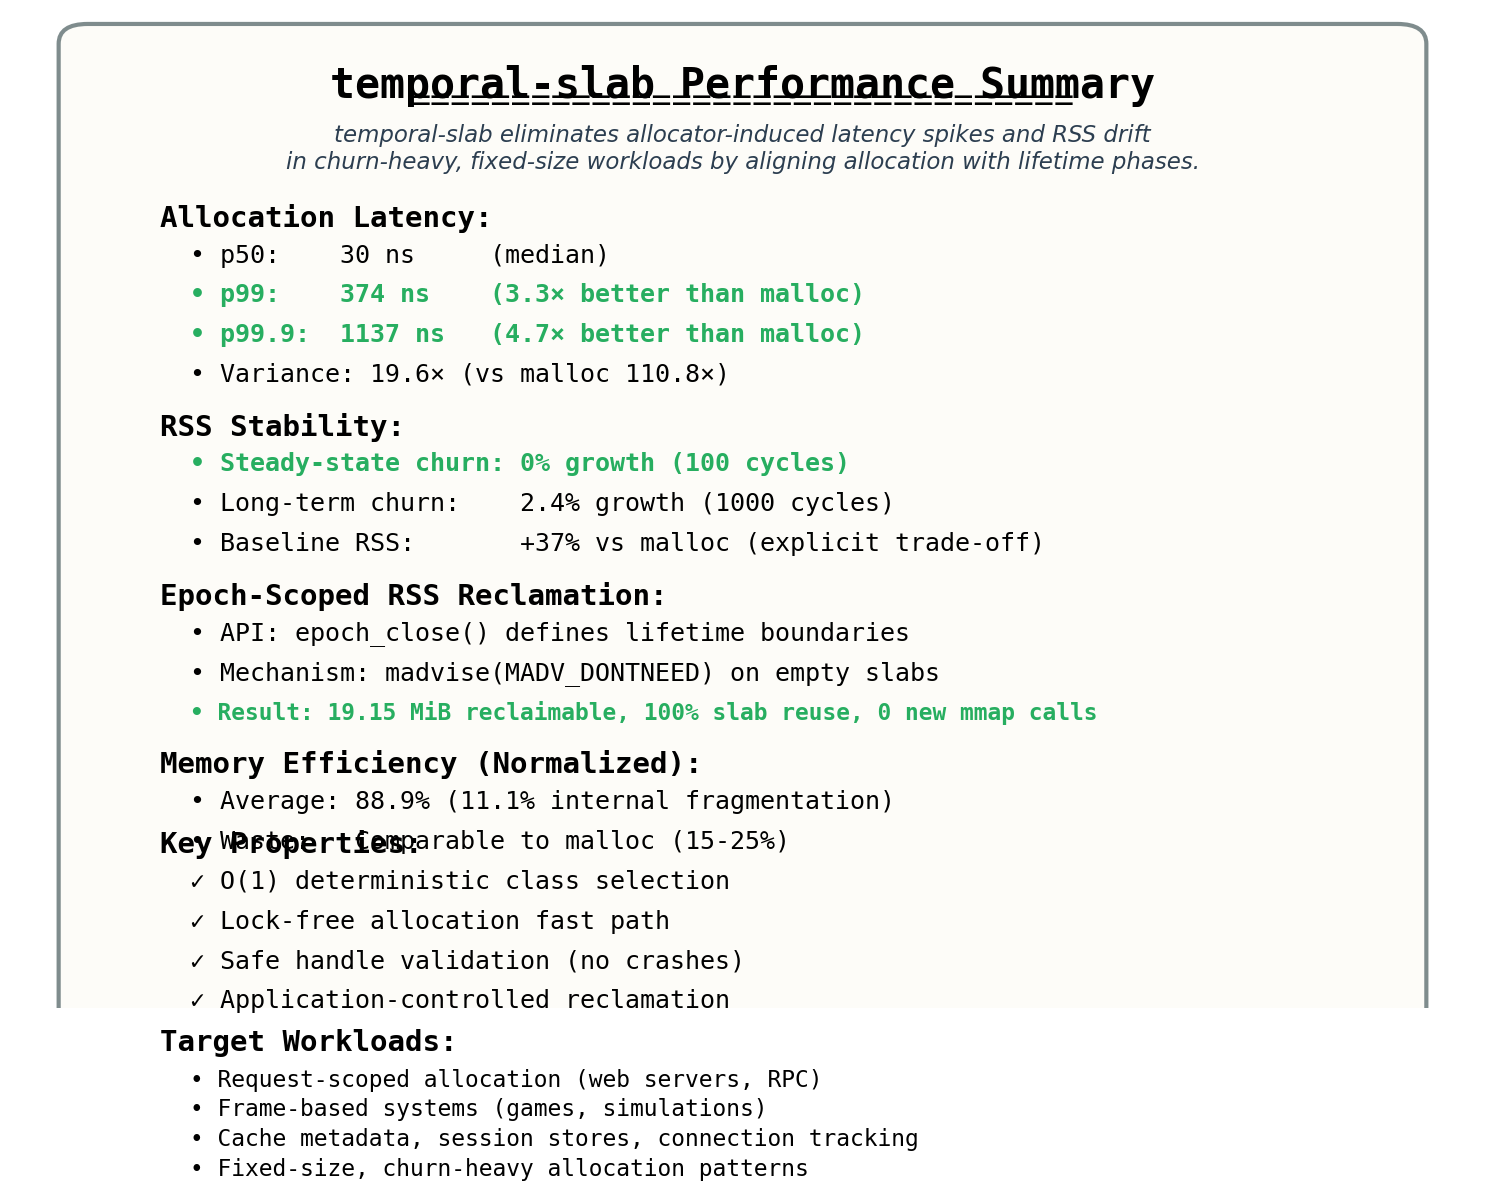
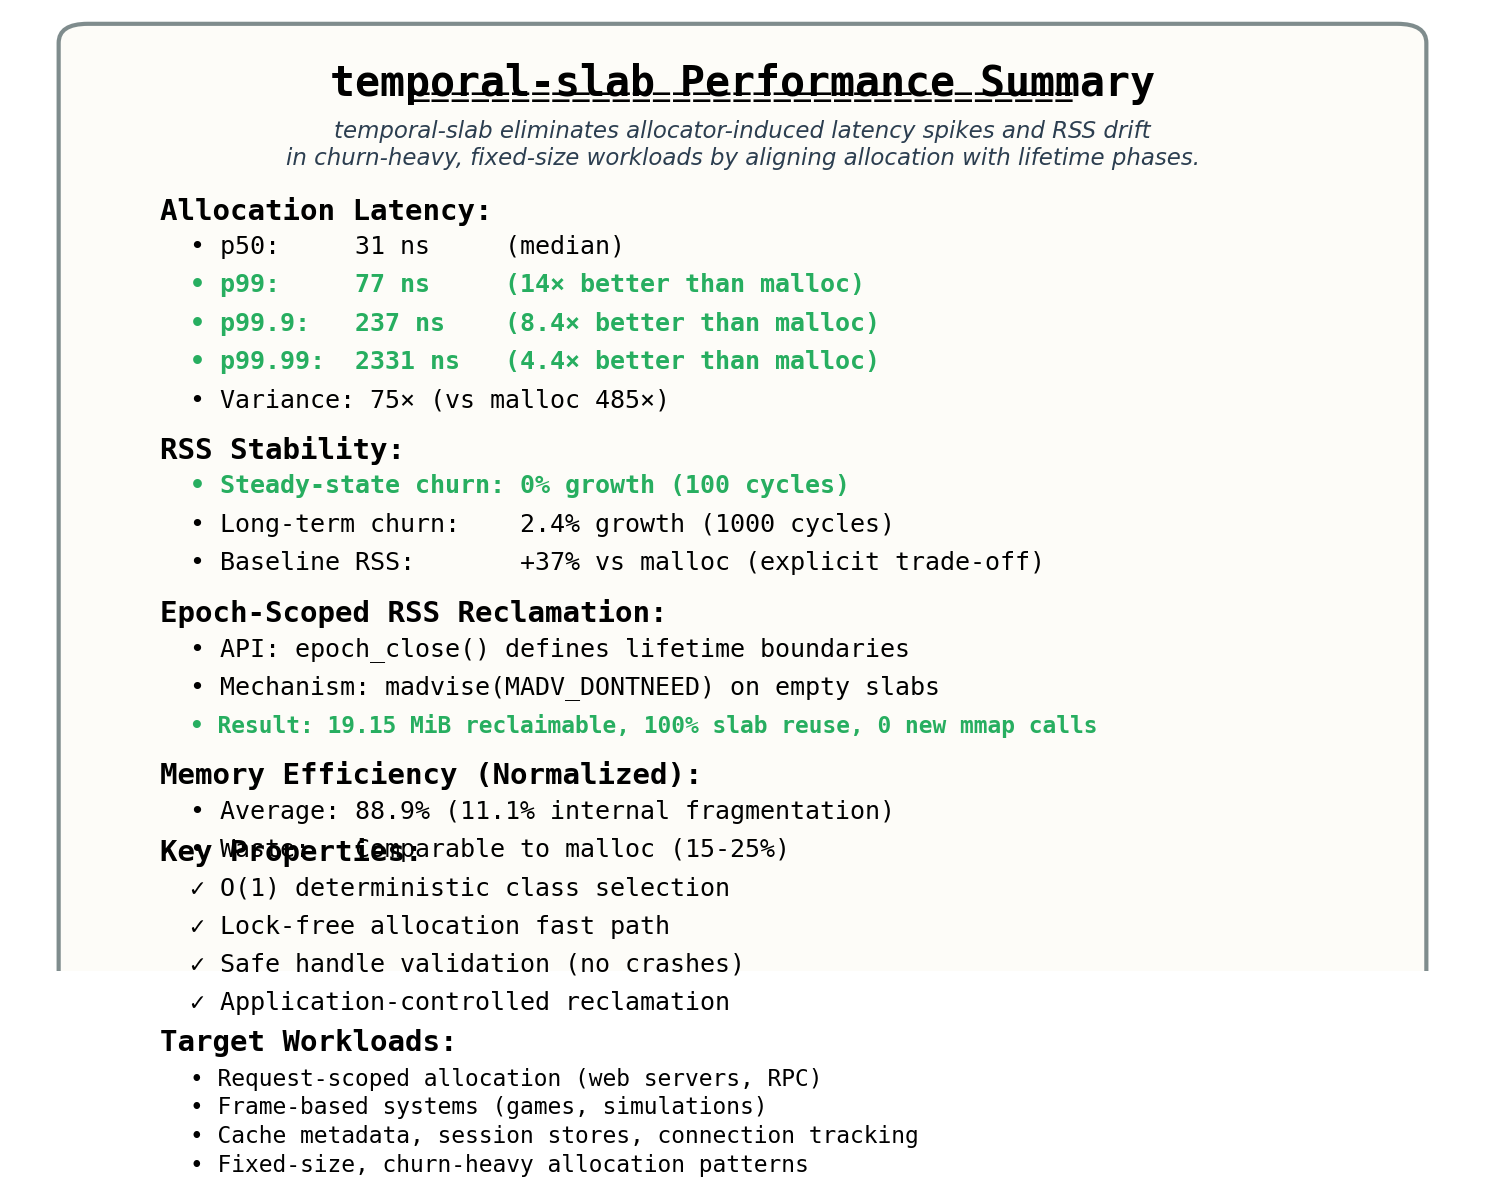
Add p99.99 tail latency data to summary image
New benchmark data (100K objects × 100 cycles = 10M allocations):
- p99:    77ns    (14× better than malloc 1085ns)
- p99.9:  237ns   (8.4× better than malloc 1992ns)
- p99.99: 2331ns  (4.4× better than malloc 10193ns)
- Variance: 75× (vs malloc 485×)

Shows temporal-slab advantage deepens through p99.9, then
converges at p99.99 (both hit outlier territory).

Updated variance ratio with new data: 75× vs 485×
(was 19.6× vs 110.8× with smaller sample)

Changed region(s): [[0.0929, 0.0621, 0.8054, 0.9631], [0.5576, 0.932, 0.6195, 0.9631]]

diff --git a/scripts/generate_summary_image.py b/scripts/generate_summary_image.py
@@ -24,17 +24,19 @@ ax.text(0.5, 0.89, thesis, fontsize=11, ha='center', va='top',
 latency_y = 0.81
 ax.text(0.1, latency_y, "Allocation Latency:", fontsize=14, fontweight='bold', 
         va='top', family='monospace')
-ax.text(0.12, latency_y - 0.04, "• p50:    30 ns     (median)", fontsize=12, 
+ax.text(0.12, latency_y - 0.04, "• p50:     31 ns     (median)", fontsize=12, 
         va='top', family='monospace')
-ax.text(0.12, latency_y - 0.08, "• p99:    374 ns    (3.3× better than malloc)", fontsize=12, 
+ax.text(0.12, latency_y - 0.08, "• p99:     77 ns     (14× better than malloc)", fontsize=12, 
         va='top', family='monospace', color='#27ae60', fontweight='bold')
-ax.text(0.12, latency_y - 0.12, "• p99.9:  1137 ns   (4.7× better than malloc)", fontsize=12, 
+ax.text(0.12, latency_y - 0.12, "• p99.9:   237 ns    (8.4× better than malloc)", fontsize=12, 
         va='top', family='monospace', color='#27ae60', fontweight='bold')
-ax.text(0.12, latency_y - 0.16, "• Variance: 19.6× (vs malloc 110.8×)", fontsize=12, 
+ax.text(0.12, latency_y - 0.16, "• p99.99:  2331 ns   (4.4× better than malloc)", fontsize=12, 
+        va='top', family='monospace', color='#27ae60', fontweight='bold')
+ax.text(0.12, latency_y - 0.20, "• Variance: 75× (vs malloc 485×)", fontsize=12, 
         va='top', family='monospace')
 
 # RSS Stability
-rss_y = 0.60
+rss_y = 0.56
 ax.text(0.1, rss_y, "RSS Stability:", fontsize=14, fontweight='bold', 
         va='top', family='monospace')
 ax.text(0.12, rss_y - 0.04, "• Steady-state churn: 0% growth (100 cycles)", fontsize=12, 
@@ -45,7 +47,7 @@ ax.text(0.12, rss_y - 0.12, "• Baseline RSS:       +37% vs malloc (explicit tr
         va='top', family='monospace')
 
 # Epoch-Scoped Reclamation
-reclaim_y = 0.43
+reclaim_y = 0.39
 ax.text(0.1, reclaim_y, "Epoch-Scoped RSS Reclamation:", fontsize=14, fontweight='bold', 
         va='top', family='monospace')
 ax.text(0.12, reclaim_y - 0.04, "• API: epoch_close() defines lifetime boundaries", fontsize=12, 
@@ -56,7 +58,7 @@ ax.text(0.12, reclaim_y - 0.12, "• Result: 19.15 MiB reclaimable, 100% slab re
         va='top', family='monospace', color='#27ae60', fontweight='bold')
 
 # Memory Efficiency
-mem_y = 0.26
+mem_y = 0.22
 ax.text(0.1, mem_y, "Memory Efficiency (Normalized):", fontsize=14, fontweight='bold', 
         va='top', family='monospace')
 ax.text(0.12, mem_y - 0.04, "• Average: 88.9% (11.1% internal fragmentation)", fontsize=12, 
@@ -65,7 +67,7 @@ ax.text(0.12, mem_y - 0.08, "• Waste:   Comparable to malloc (15-25%)", fontsi
         va='top', family='monospace')
 
 # Key Properties
-props_y = 0.18
+props_y = 0.14
 ax.text(0.1, props_y, "Key Properties:", fontsize=14, fontweight='bold', 
         va='top', family='monospace')
 ax.text(0.12, props_y - 0.04, "✓ O(1) deterministic class selection", fontsize=12, 
@@ -78,7 +80,7 @@ ax.text(0.12, props_y - 0.16, "✓ Application-controlled reclamation", fontsize
         va='top', family='monospace')
 
 # Target Workloads
-target_y = -0.02
+target_y = -0.06
 ax.text(0.1, target_y, "Target Workloads:", fontsize=14, fontweight='bold', 
         va='top', family='monospace')
 ax.text(0.12, target_y - 0.04, "• Request-scoped allocation (web servers, RPC)", fontsize=11, 
